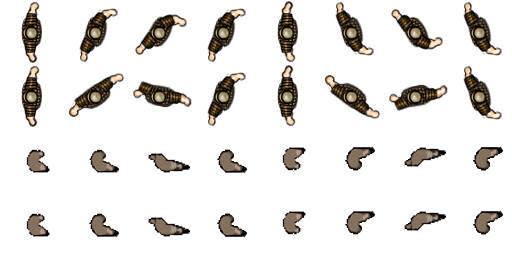
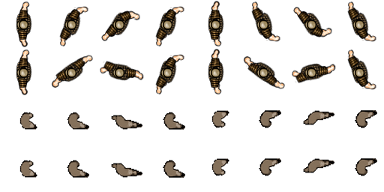
Refine Graphics

diff --git a/public/app/BaseCharacter.js b/public/app/BaseCharacter.js
@@ -6,42 +6,94 @@ var p = BaseCharacter.prototype = new Container();
 
 p.Container_initialize = p.initialize;
 
+BaseCharacter.scaleHandmap = function (arr, scale) {
+    var arr2 = [];
+    for (var i in arr) {
+        var a2 = arr[i];
+        var a3 = [];
+        for (var j in a2) {
+            a3[j] = [Math.floor(a2[j][0] * scale), Math.floor(a2[j][1] * scale), a2[j][2], a2[j][3]]
+        }
+        arr2[i] = a3;
+    }
+    return JSON.stringify(arr2);
+};
+
 BaseCharacter.HANDMAP_STANDARD = [
     [
-        [0, 26, 90, false],
-        [-13, 26, 105, false],
-        [-21, 19, 130, false],
-        [-13, 26, 105, false],
-        [0, 26, 90, false],
-        [17, 19, 75, false],
-        [23, 10, 50, false],
-        [17, 19, 75, false],
-        [0, 26, 260, false],
-        [-23, 16, 290, false],
-        [-24, -3, 310, false],
-        [-13, 26, 180, false],
-        [0, 26, 160, false],
-        [23, 16, 115, false],
-        [28, -7, 60, false],
-        [17, 19, 75, false]
+        [0, 19, 90, false],
+        [-10, 19, 105, false],
+        [-16, 14, 130, false],
+        [-10, 19, 105, false],
+        [0, 19, 90, false],
+        [12, 14, 75, false],
+        [17, 7, 50, false],
+        [12, 14, 75, false],
+        [0, 19, 260, false],
+        [-18, 12, 290, false],
+        [-18, -3, 310, false],
+        [-10, 19, 180, false],
+        [0, 19, 160, false],
+        [17, 12, 115, false],
+        [21, -6, 60, false],
+        [12, 14, 75, false]
     ],
     [
-        [3, -27, 0, false],
-        [17, -19, 15, false],
-        [23, -10, 30, false],
-        [17, -19, 15, false],
-        [3, -27, 0, false],
-        [-13, -26, -25, false],
-        [-21, -19, -40, false],
-        [-13, -26, -25, false],
-        [3, -27, 0, false],
-        [23, -19, 50, false],
-        [28, 7, 90, false],
-        [17, -19, 0, false],
-        [3, -27, -15, false],
-        [-23, -19, -30, false],
-        [-24, 3, -65, false],
-        [-13, -26, -75, false]
+        [2, -21, 0, false],
+        [12, -15, 15, false],
+        [17, -8, 30, false],
+        [12, -15, 15, false],
+        [2, -21, 0, false],
+        [-10, -20, -25, false],
+        [-16, -15, -40, false],
+        [-10, -20, -25, false],
+        [2, -21, 0, false],
+        [17, -15, 50, false],
+        [21, 5, 90, false],
+        [12, -15, 0, false],
+        [2, -21, -15, false],
+        [-18, -15, -30, false],
+        [-18, 2, -65, false],
+        [-10, -20, -75, false]
+    ]
+];
+
+BaseCharacter.HANDMAP_2X = [
+    [
+        [0, 38, 90, false],
+        [-20, 38, 105, false],
+        [-32, 28, 130, false],
+        [-20, 38, 105, false],
+        [0, 38, 90, false],
+        [24, 28, 75, false],
+        [34, 14, 50, false],
+        [24, 28, 75, false],
+        [0, 38, 260, false],
+        [-36, 24, 290, false],
+        [-36, -6, 310, false],
+        [-20, 38, 180, false],
+        [0, 38, 160, false],
+        [34, 24, 115, false],
+        [42, -12, 60, false],
+        [24, 28, 75, false]
+    ],
+    [
+        [4, -42, 0, false],
+        [24, -30, 15, false],
+        [34, -16, 30, false],
+        [24, -30, 15, false],
+        [4, -42, 0, false],
+        [-20, -40, -25, false],
+        [-32, -30, -40, false],
+        [-20, -40, -25, false],
+        [4, -42, 0, false],
+        [34, -30, 50, false],
+        [42, 10, 90, false],
+        [24, -30, 0, false],
+        [4, -42, -15, false],
+        [-36, -30, -30, false],
+        [-36, 4, -65, false],
+        [-20, -40, -75, false]
     ]
 ];
 

diff --git a/public/app/offline.js b/public/app/offline.js
@@ -364,7 +364,7 @@ $.initializeFirst = function () {
         context.effectsAnim = new BitmapAnimation(spriteSheetEffects);
         var spriteSheetSwords = new SpriteSheet({
             images:[$.appPath + "/img/swords.png"],
-            frames:{width:32, height:64, regX:15, regY:55},
+            frames:{width:24, height:48, regX:11, regY:41},
             animations:{
                 shortSword:0,
                 shortSword_:0,
@@ -385,7 +385,7 @@ $.initializeFirst = function () {
 
         var spriteSheetShields = new SpriteSheet({
             images:[$.appPath + "/img/shields.png"],
-            frames:{width:32, height:32, regX:16, regY:20},
+            frames:{width:24, height:24, regX:12, regY:15},
             animations:{
                 woodenShield:0,
                 woodenShield_:16,
@@ -431,7 +431,7 @@ $.initializeFirst = function () {
 
         var spriteSheetPlayer = new SpriteSheet({
             images:[$.appPath + "/img/player.png"],
-            frames:{width:64, height:64, regX:32, regY:32},
+            frames:{width:48, height:48, regX:24, regY:24},
             animations:BaseCharacter.BODY_ANIMATION
         });
 
@@ -462,7 +462,7 @@ $.initializeFirst = function () {
 
         for (var i = 0; i < enemyData.length; i++) {
             var _enemyData = enemyData[i];
-            var _enemySize = 64;
+            var _enemySize = 48;
             var _bodyName = _enemyData.body.toString();
             if (_bodyName.match(/.*_/)) {
                 _enemySize = parseInt(_bodyName.replace(/.*_/, ''));
@@ -491,8 +491,11 @@ $.initializeFirst = function () {
         for (var i = 0; i < enemyNum; i++) {
             var index = Math.floor(Math.random() * 2.5) + Math.min(floorBonus, enemyData.length);
             var _enemy = enemyData[index];
+            if (!_enemy.hasOwnProperty('handMap')) {
+                _enemy.handMap = BaseCharacter.HANDMAP_STANDARD;
+            }
             var _enemyAnim = _enemy.anim.clone();
-            var enemy = new BaseCharacter(context, _enemyAnim, BaseCharacter.HANDMAP_STANDARD,
+            var enemy = new BaseCharacter(context, _enemyAnim, _enemy.handMap,
                 context.itemMaster[_enemy.items['rightArm']],
                 context.itemMaster[_enemy.items['leftArm']]);
             for (var k in _enemy) {

diff --git a/public/screen.html b/public/screen.html
@@ -22,7 +22,7 @@
 <head>
     <meta http-equiv="Content-Type" content="text/html; charset=UTF-8"/>
     <meta name="format-detection" content="telephone=no"/>
-    <meta content="width=420 user-scalable=no" name="viewport"/>
+    <meta content="width=340 user-scalable=no" name="viewport"/>
 
     <script type="text/javascript" charset="utf-8" src="js/jquery-1.7.1.min.js"></script>
     <script type="text/javascript" charset="utf-8" src="js/plugins/jquery.mobile-1.2.0.min.js"></script>

diff --git a/public/app/AppContext.js b/public/app/AppContext.js
@@ -56,7 +56,7 @@ var CharacterAction = exports.CharacterAction = {
     DEAD:6
 };
 var __maxDiffClientTime = 20;
-var __tileSize = 128;
+var __tileSize = 96;
 exports.currentContext = null;
 var AppContext = exports.AppContext = function (playData) {
     var _this = this;
